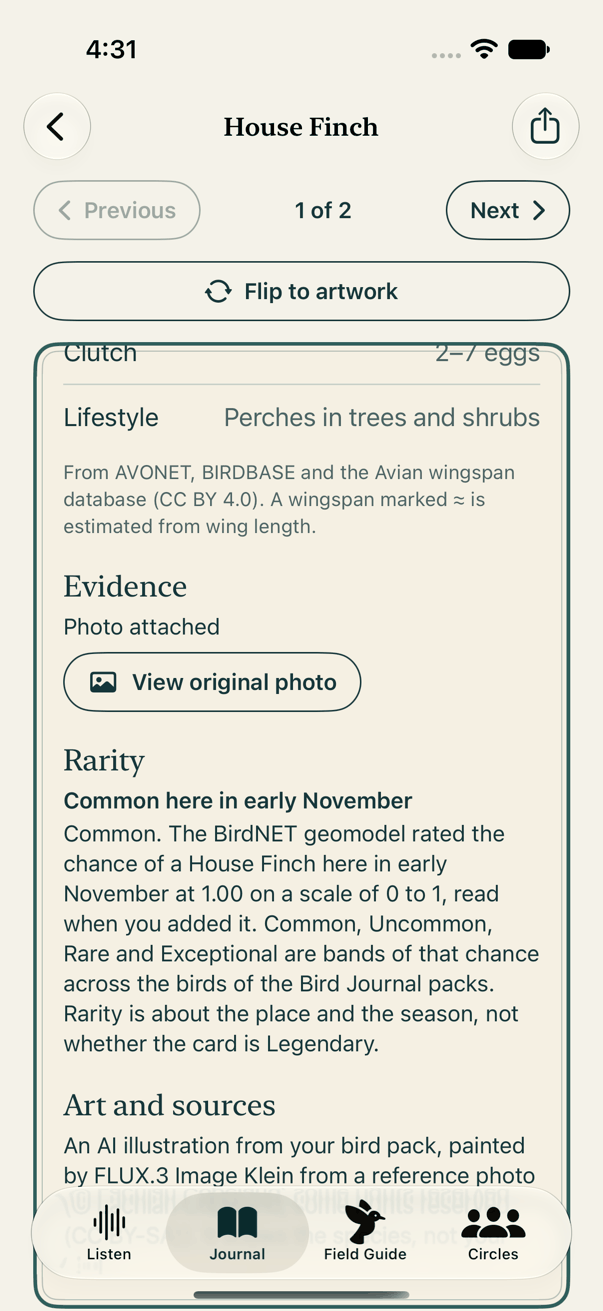
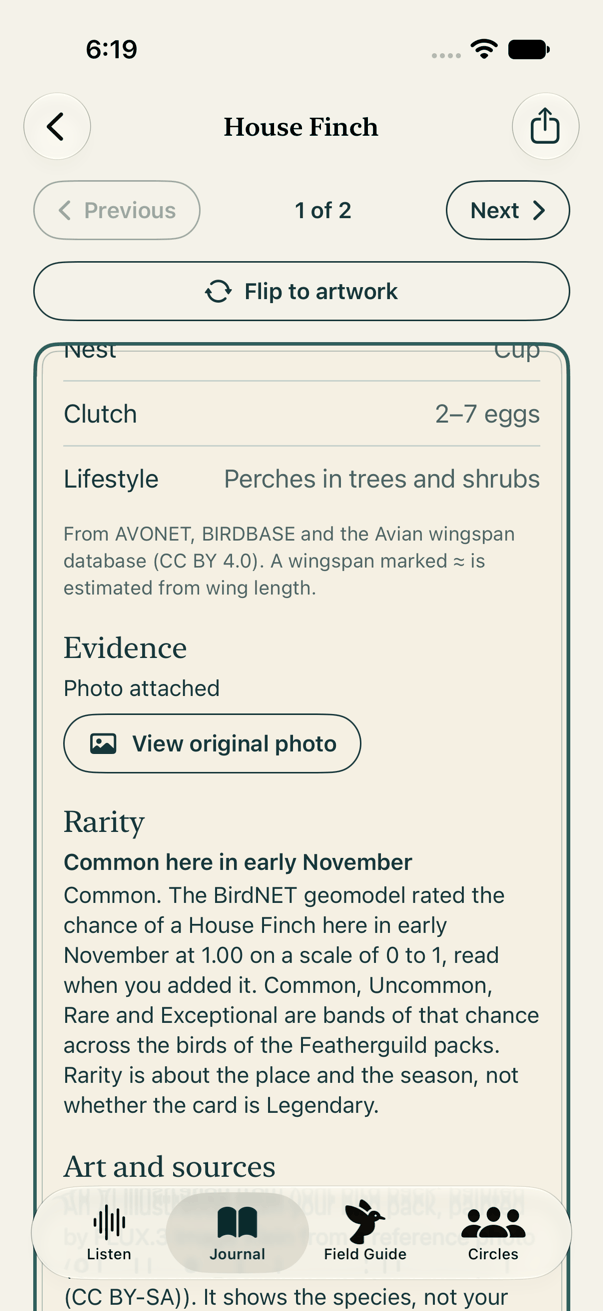
Screenshots of the story-first card on Los Angeles v10, with the story titles (#116)

Changed region(s): [[0.0896, 0.2441, 0.8955, 0.9153], [0.0299, 0.9764, 0.9552, 1.0], [0.1493, 0.0305, 0.2388, 0.061]]

diff --git a/docs/screenshots/README.md b/docs/screenshots/README.md
@@ -29,7 +29,7 @@ and its back with the Art section naming FLUX.3 Image Klein and the reference ph
 Both fronts show the Los Angeles v7 pack art labelled "AI illustration".
 
 `116/` is the evidence for issue #116 (Featherguild slice 1: the tokens and the story-first card), half size from an
-iPhone 17 Pro simulator (iOS 27.2) with `-inMemoryAlbum YES -seedJournal YES`, reduced to 256 colours. Each screen is
+iPhone 17 Pro simulator (iOS 27.2) on Los Angeles v10 (with the story titles) with `-inMemoryAlbum YES -seedJournal YES`, reduced to 256 colours. Each screen is
 in `dark`, `light` and `ax3` (light at accessibility extra large), numbered top to bottom where the screen scrolls:
 - `front-legendary`: the Black Phoebe, the seeded journal's Legendary card with the caption, from `-autoScreen card
   -autoCardSpecies "Sayornis nigricans"`
